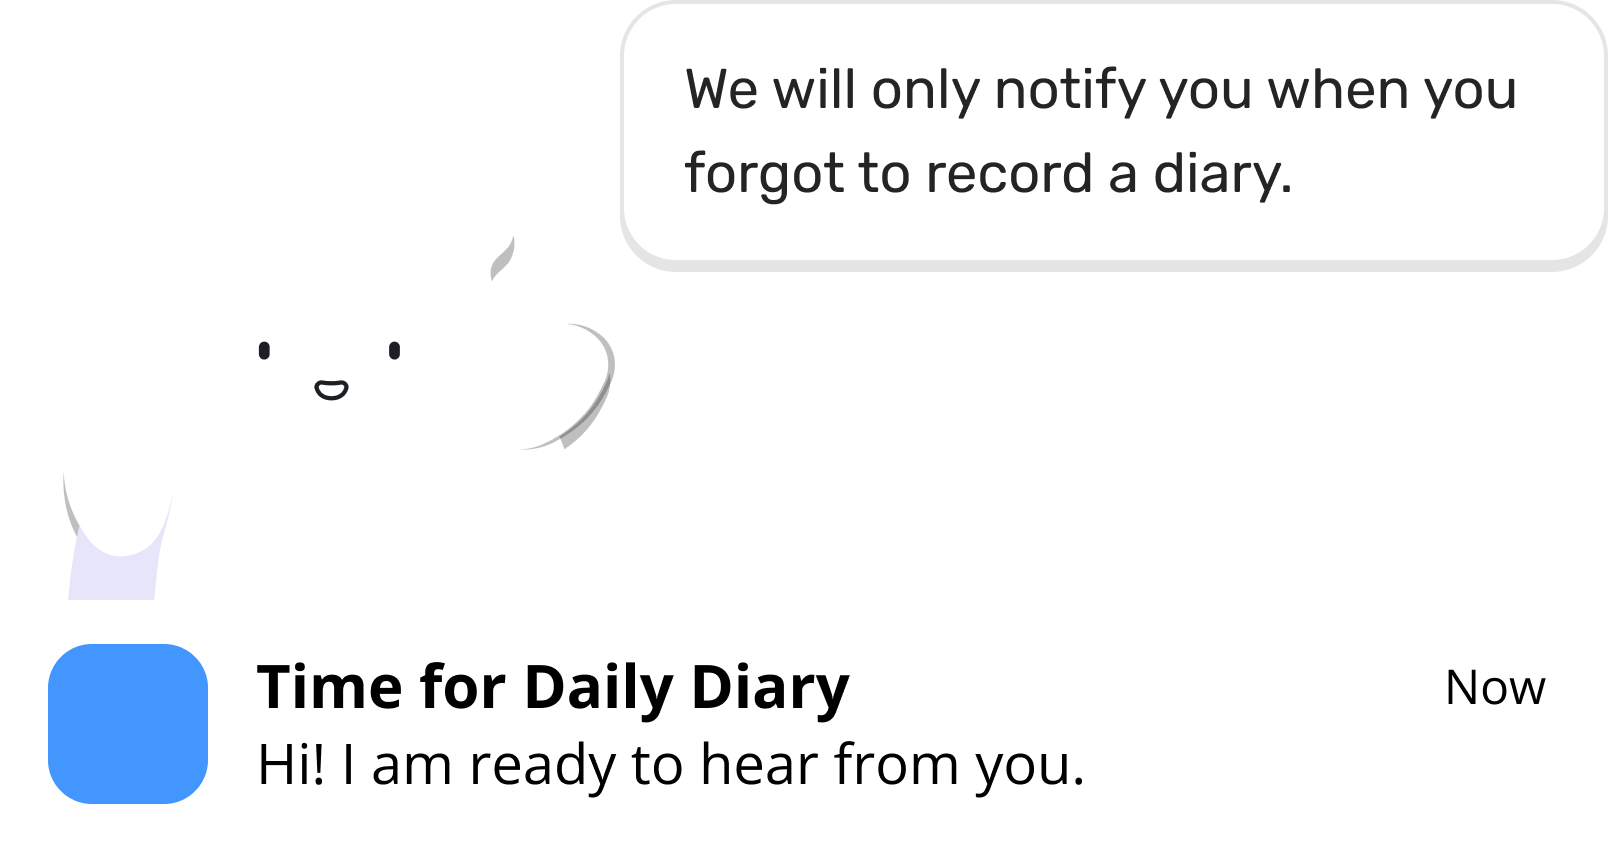
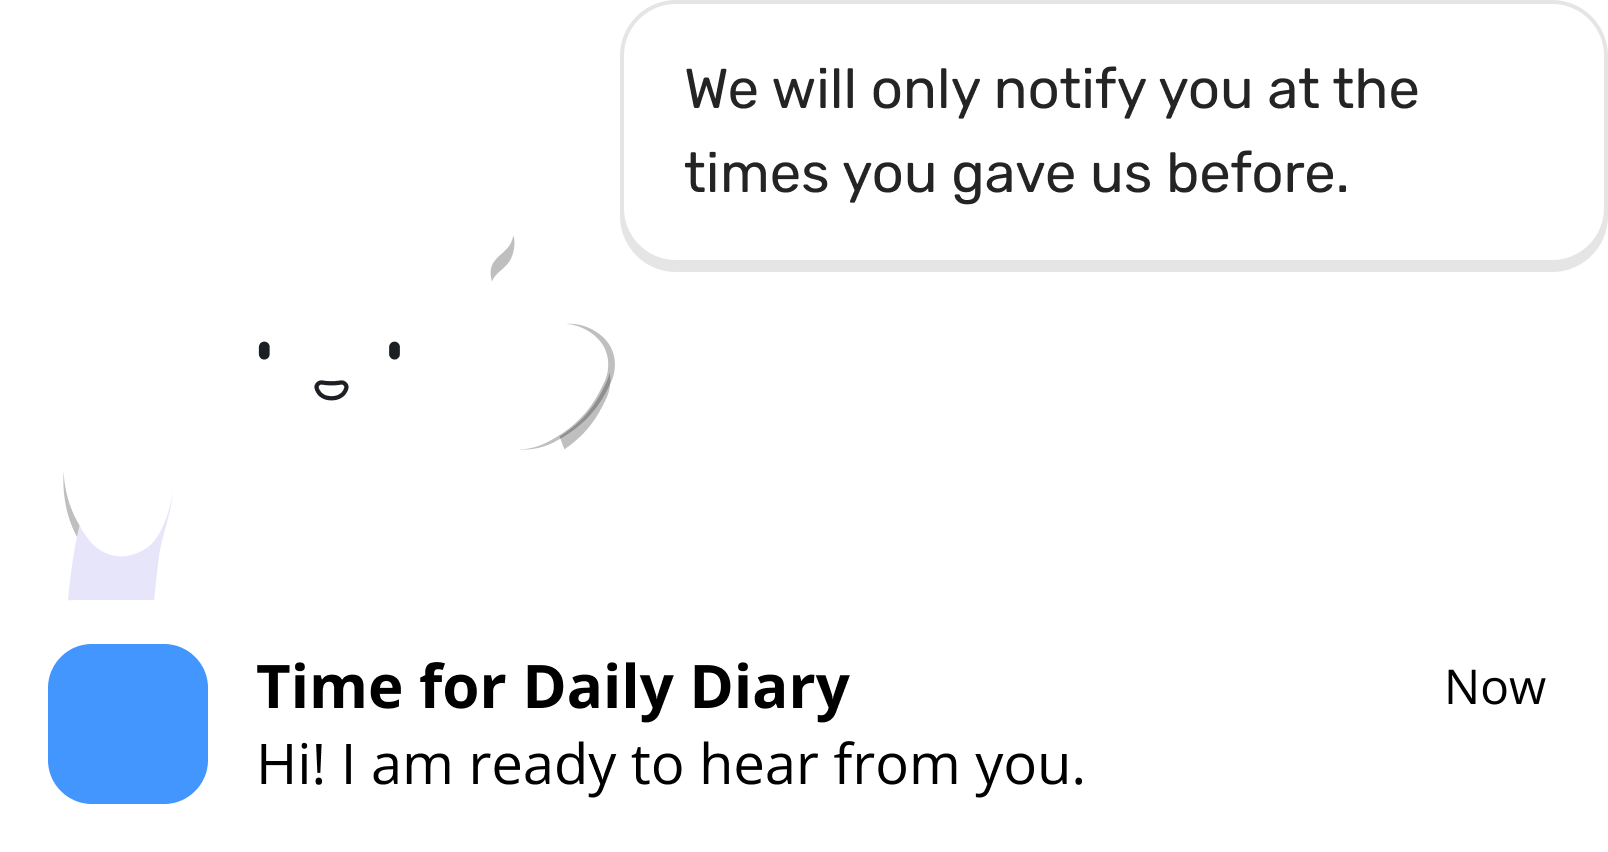
Flagging missed diaries
The app is checking the previous diaries if they are complete if no then they are changing them to the state of missed and it will not let the user respond to previous missed diaries.

Also swapped out the image on the onboarding, accidentally changed the wrong image in the notification PR

Changed region(s): [[0.4353, 0.1831, 0.8396, 0.2441], [0.7774, 0.061, 0.9639, 0.1526]]

diff --git a/lib/theme/components/cards.dart b/lib/theme/components/cards.dart
@@ -5,7 +5,6 @@ import 'package:audio_diaries_flutter/theme/custom_typography.dart';
 import 'package:audio_diaries_flutter/theme/dialogs/pop_ups.dart';
 import 'package:audioplayers/audioplayers.dart';
 import 'package:flutter/material.dart';
-import 'package:tuple/tuple.dart';
 
 import '../../core/utils/formatter.dart';
 import '../../core/utils/statuses.dart';
@@ -25,9 +24,10 @@ class DiaryCard extends StatelessWidget {
 
   @override
   Widget build(BuildContext context) {
+    print(diary?.status == DiaryStatus.submitted || diary?.status == DiaryStatus.missed);
     return Container(
       decoration: BoxDecoration(
-        color: diary?.status == DiaryStatus.submitted
+        color: diary?.status == DiaryStatus.submitted || diary?.status == DiaryStatus.missed
             ? CustomColors.fillNormal
             : CustomColors.fillWhite,
         borderRadius: BorderRadius.circular(12),
@@ -58,7 +58,7 @@ class DiaryCard extends StatelessWidget {
                 alignment: WrapAlignment.start,
                 runAlignment: WrapAlignment.start,
                 crossAxisAlignment: WrapCrossAlignment.start,
-                children: [for (var tag in diary!.tags) TagPill(tag: tag)],
+                children: [for (var tag in diary!.tags) TagPill(status: diary!.status,tag: tag)],
               ),
             ),
             const SizedBox(
@@ -82,15 +82,16 @@ class DiaryCard extends StatelessWidget {
                       DiaryStatus.idle => "Start",
                       DiaryStatus.ongoing => "Continue",
                       DiaryStatus.submitted => "View",
+                      DiaryStatus.missed => "View",
                     },
-                    color: diary?.status == DiaryStatus.submitted
+                    color: diary?.status == DiaryStatus.submitted || diary?.status == DiaryStatus.missed
                         ? CustomColors.fillNormal
                         : CustomColors.productNormal,
-                    border: diary?.status == DiaryStatus.submitted
+                    border: diary?.status == DiaryStatus.submitted || diary?.status == DiaryStatus.missed
                         ? Border.all(
                             color: CustomColors.productNormal, width: 2)
                         : const Border(),
-                    textColor: diary?.status == DiaryStatus.submitted
+                    textColor: diary?.status == DiaryStatus.submitted || diary?.status == DiaryStatus.missed
                         ? CustomColors.productNormal
                         : CustomColors.textWhite,
                   ),
@@ -119,21 +120,30 @@ class DiaryCard extends StatelessWidget {
 
 /// Used in [DiaryCard]
 class TagPill extends StatelessWidget {
+  final DiaryStatus status;
   final Tag tag;
   const TagPill({
     super.key,
+    required this.status,
     required this.tag,
   });
 
   @override
   Widget build(BuildContext context) {
-    Tuple2<Color, Color> colors = getColorFromString(tag.text);
+    //Tuple2<Color, Color> colors = getColorFromString(tag.text);
+    final color = switch (status) {
+      DiaryStatus.idle => CustomColors.productNormal,
+      DiaryStatus.submitted => CustomColors.darkGreen,
+      DiaryStatus.complete => CustomColors.productNormal,
+      DiaryStatus.ongoing => CustomColors.productNormal,
+      DiaryStatus.missed => CustomColors.warningActive,
+    };
     return Container(
       padding: const EdgeInsets.symmetric(horizontal: 5, vertical: 2),
       decoration: BoxDecoration(
           shape: BoxShape.rectangle,
           borderRadius: BorderRadius.circular(5),
-          color: colors.item1),
+          color: color),
       child: Wrap(
         crossAxisAlignment: WrapCrossAlignment.center,
         children: [
@@ -143,13 +153,13 @@ class TagPill extends StatelessWidget {
               TagType.remainder => Icons.contrast_rounded,
               TagType.questions => Icons.quiz_outlined,
             },
-            color: colors.item2,
+            color: CustomColors.fillWhite,
           ),
           const SizedBox(
             width: 5,
           ),
           Text(tag.text,
-              style: CustomTypography().caption(color: colors.item2)),
+              style: CustomTypography().caption(color: CustomColors.fillWhite)),
         ],
       ),
     );

diff --git a/lib/screens/diary/domain/repository/diary_repository.dart b/lib/screens/diary/domain/repository/diary_repository.dart
@@ -1,3 +1,5 @@
+import 'package:audio_diaries_flutter/core/utils/statuses.dart';
+
 import '../../../../core/database/dao/diary_dao.dart';
 import '../../../../main.dart';
 import '../../../../objectbox.g.dart';
@@ -14,7 +16,23 @@ class DiaryRepository {
   /// A list of DiaryEntity objects representing all stored diary entries.
   ///
   List<DiaryEntity> _getAllDiariesEntities() {
-    return _diaryDAO.getAllDiaries();
+    final diaries = _diaryDAO.getAllDiaries();
+    final due = DateTime(DateTime.now().year, DateTime.now().month,
+            DateTime.now().day, 4, 0, 0);
+    final unSubmittedDiaries = diaries
+        .where((diary) => diary.due.isBefore(due))
+        .where((element) => element.status != DiaryStatus.submitted)
+        .toList();
+    
+    if(unSubmittedDiaries.isNotEmpty){
+      for(final diary in unSubmittedDiaries){
+        diary.status = DiaryStatus.missed;
+      }
+
+      _diaryDAO.updateDiaries(unSubmittedDiaries);
+      return _diaryDAO.getAllDiaries();
+    }
+    return diaries;
   }
 
   /// Retrieves a DiaryEntity object from the data source based on a specified due date.
@@ -27,7 +45,7 @@ class DiaryRepository {
   /// A DiaryEntity object representing the diary entry with the specified due date, if found,
   /// or null if no matching entry is found in the data source.
   ///
-  DiaryEntity? _getDiaryEntity(DateTime start,DateTime due) {
+  DiaryEntity? _getDiaryEntity(DateTime start, DateTime due) {
     return _diaryDAO.getDiary(start, due);
   }
 
@@ -54,7 +72,7 @@ class DiaryRepository {
   /// A Diary object representing the diary entry with the specified due date, if found,
   /// or null if no matching entry is found in the data source.
   ///
-  Diary? getDiary(DateTime start,DateTime due) {
+  Diary? getDiary(DateTime start, DateTime due) {
     final diary = _getDiaryEntity(start, due);
     if (diary != null) {
       return Diary.fromEntity(diary);

diff --git a/lib/screens/diary/presentation/pages/new_diary.dart b/lib/screens/diary/presentation/pages/new_diary.dart
@@ -45,6 +45,11 @@ class _NewDiaryPageState extends State<NewDiaryPage>
   void initState() {
     controller = PageController();
     controllerInit();
+    if(widget.diary.status == DiaryStatus.submitted || widget.diary.status == DiaryStatus.missed){
+      setState(() {
+        ableToContinue = true;
+      });
+    }
     super.initState();
   }
 
@@ -234,7 +239,7 @@ class _QuestionPageState extends State<QuestionPage> {
                 state.prompt.answer?.response != null) {
               widget.answerAdded(true);
             } else {
-              if (widget.diary.status != DiaryStatus.submitted) {
+              if (widget.diary.status != DiaryStatus.submitted && widget.diary.status != DiaryStatus.missed) {
                 widget.answerAdded(false);
               } else {
                 widget.answerAdded(true);
@@ -366,7 +371,7 @@ class _QuestionPageState extends State<QuestionPage> {
                   status: widget.diary.status,
                   recordings: prompt.answer!.recordings)
               : const SizedBox.shrink(),
-          widget.diary.status == DiaryStatus.submitted
+          widget.diary.status == DiaryStatus.submitted || widget.diary.status == DiaryStatus.missed
               ? const SizedBox.shrink()
               : responseWidget,
           if (widget.diary.status != DiaryStatus.submitted)

diff --git a/lib/screens/diary/data/diary.dart b/lib/screens/diary/data/diary.dart
@@ -1,4 +1,5 @@
 import 'package:audio_diaries_flutter/core/utils/statuses.dart';
+import 'package:audio_diaries_flutter/core/utils/types.dart';
 
 import '../../../core/utils/dummy_data.dart';
 import '../domain/entities/diary_entity.dart';
@@ -33,13 +34,22 @@ class Diary {
   factory Diary.fromEntity(DiaryEntity entity) {
     final date = DateTime.parse(entity.deadline);
     final start = DateTime.parse(entity.start);
+    final tag = Tag(
+        text: switch (entity.status) {
+          DiaryStatus.idle => "Idle",
+          DiaryStatus.ongoing => "Ongoing",
+          DiaryStatus.complete => "Ongoing",
+          DiaryStatus.submitted => "Done",
+          DiaryStatus.missed => "Missed",
+          null => "Idle"
+        },
+        type: TagType.time);
     return Diary(
-      id: entity.id,
-      prompts: fakePrompts[entity.prompts[0]] ?? [],
-      tags: fakeTags,
-      status: entity.status ?? DiaryStatus.idle,
-      due: date,
-      start: start
-    );
+        id: entity.id,
+        prompts: fakePrompts[entity.prompts[0]] ?? [],
+        tags: [tag],
+        status: entity.status ?? DiaryStatus.idle,
+        due: date,
+        start: start);
   }
 }

diff --git a/lib/core/database/dao/diary_dao.dart b/lib/core/database/dao/diary_dao.dart
@@ -61,4 +61,18 @@ class DiaryDAO {
   void updateDiary(DiaryEntity diary) {
     box.put(diary);
   }
+  
+  /// Updates multiple existing DiaryEntity objects in the database.
+  /// This function modifies the properties of a specific diary entry within the storage box.
+  ///
+  /// Parameters:
+  /// - [diaries]: The List of DiaryEntity objects representing the entries to be updated.
+  ///
+  /// Note:
+  /// This function efficiently applies changes to a multiple diary entries within the storage box.
+  /// It ensures that the modified data replaces the existing entries while preserving its unique identifier.
+  ///
+  void updateDiaries(List<DiaryEntity> diaries) {
+    box.putMany(diaries);
+  }
 }

diff --git a/lib/core/utils/dummy_data.dart b/lib/core/utils/dummy_data.dart
@@ -977,6 +977,10 @@ List<Tag> fakeTags = const [
   Tag(text: "Multiple questions", type: TagType.questions),
 ];
 
+const Tag missedTag = Tag(text: "Missed", type: TagType.time);
+const Tag onGoingTag = Tag(text: "Ongoing", type: TagType.time);
+const Tag doneTag = Tag(text: "Done", type: TagType.time);
+
 const TimeOfDay fixedTime = TimeOfDay(hour: 9, minute: 0);
 
 final List<String> studyCodes = [

diff --git a/lib/screens/diary/domain/entities/diary_entity.dart b/lib/screens/diary/domain/entities/diary_entity.dart
@@ -41,6 +41,7 @@ class DiaryEntity {
     assert(DiaryStatus.ongoing.index == 1);
     assert(DiaryStatus.complete.index == 2);
     assert(DiaryStatus.submitted.index == 3);
+    assert(DiaryStatus.missed.index == 4);
   }
 
   /// Factory constructor that creates a DiaryEntity object from a Diary model.

diff --git a/lib/theme/custom_colors.dart b/lib/theme/custom_colors.dart
@@ -60,5 +60,8 @@ class CustomColors {
   static const Color greyLight = Color(0xFFD0D0D0);
   static const Color greyDark = Color(0xFFAFAFAF);
 
+  //Green
+  static const Color darkGreen = Color(0xFF2EA642);
+
   static const Color newBlue = Color(0XFF87BCFF);
 }

diff --git a/lib/core/utils/statuses.dart b/lib/core/utils/statuses.dart
@@ -3,6 +3,7 @@ enum DiaryStatus {
   ongoing,
   complete,
   submitted,
+  missed
 }
 
 enum RecorderState {
